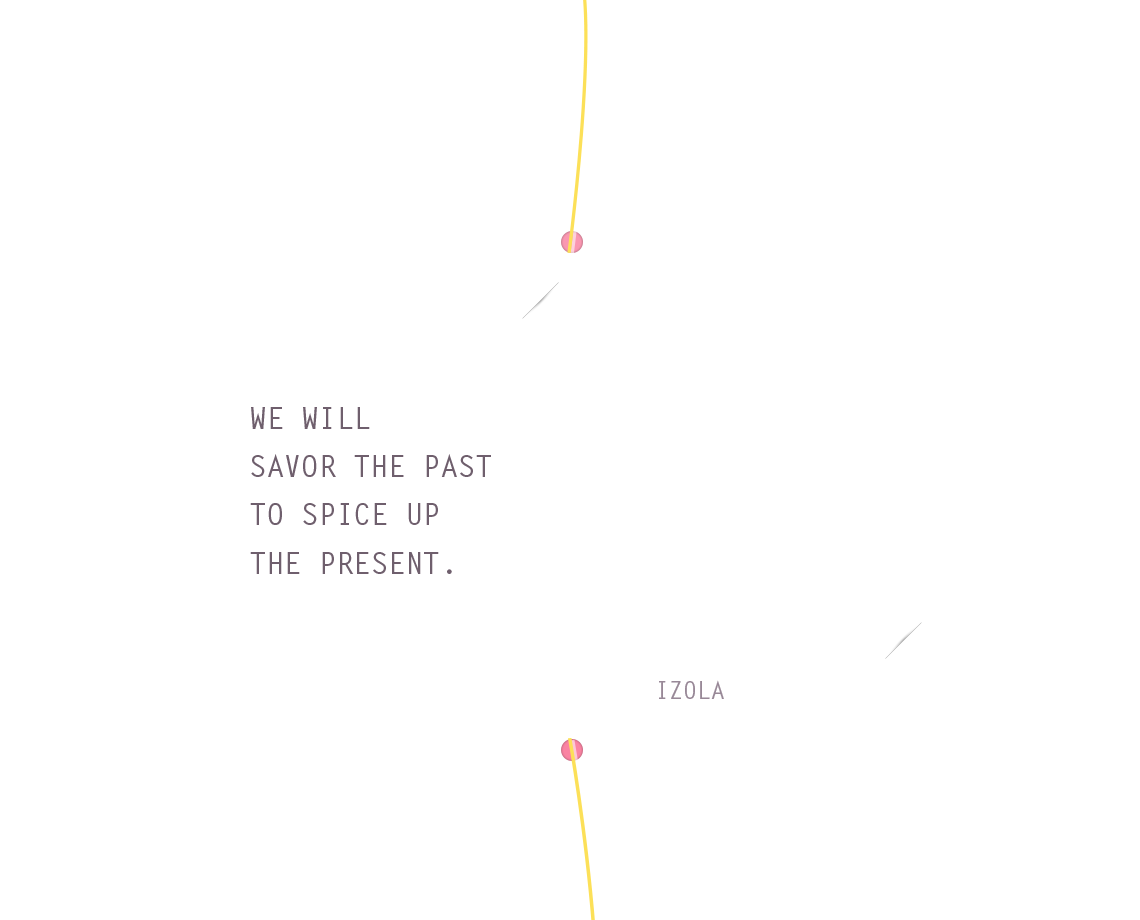
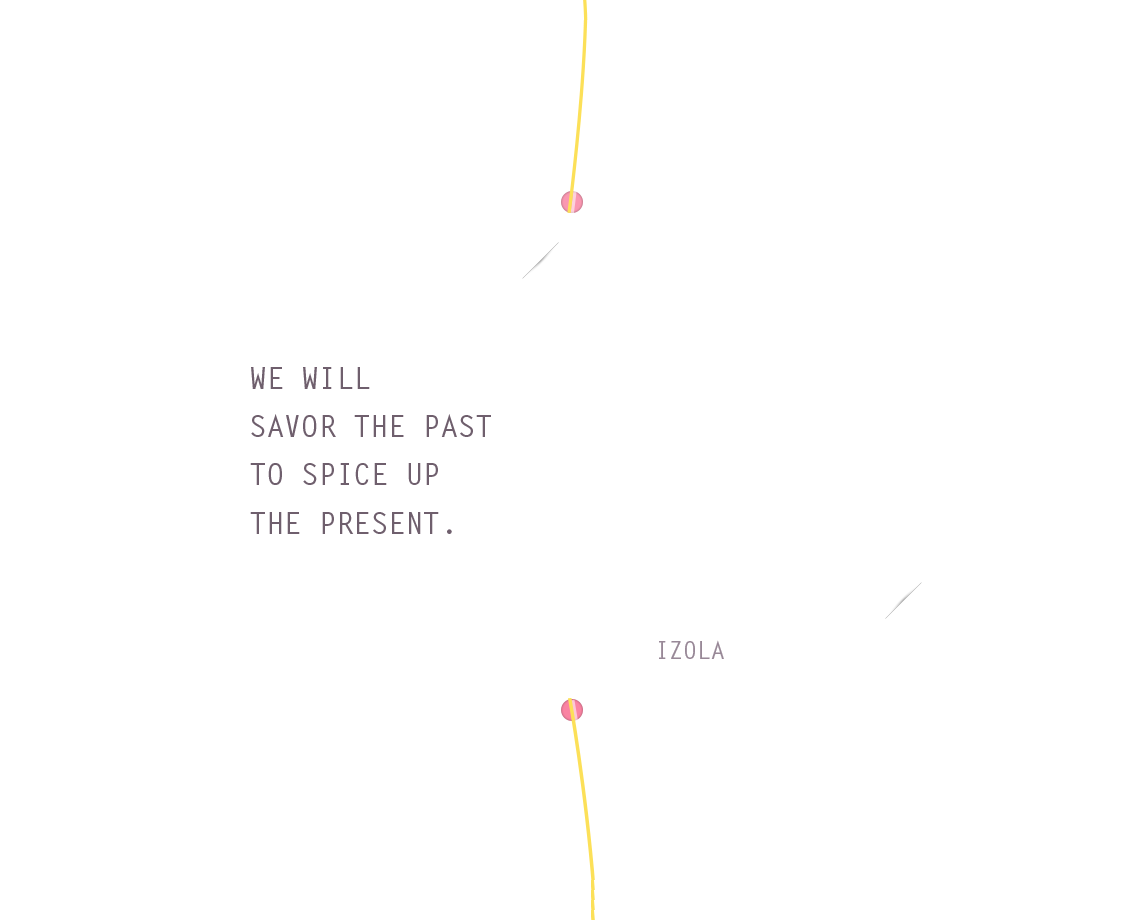
wip - parralax stable

diff --git a/public/static/css/style.css b/public/static/css/style.css
@@ -44,25 +44,60 @@ body, html { margin:0; padding:0; background-color:#fd8c80; }
 
 wrap { width:100%; position: relative; }
 
-#content-box { width: 1140px; height: 9300px; margin:0 auto; position:relative; }
+#content-box { width: 1140px; height: 10300px; margin:0 auto; position:relative; overflow:hidden; }
 #content-cards { position:absolute; top:0; left:0; right:0; bottom:0; /*background: url("/static/images/slides_cards.png") no-repeat scroll left top transparent;*/  }
 #content-text { position:absolute; top:0; left:0; right:0; bottom:0; /*background: url("/static/images/slides_text_wire_corners.png") no-repeat scroll left top transparent; */ }
 
-#content-back { position:absolute; top:0; left:0; right:0; bottom:0; height: 6080px; }
+#content-back { position:absolute; top:0; left:0; right:0; bottom:0; height: 7210px; /*background: url("/static/images/para_bg.jpg") repeat fixed left top transparent;*/}
 
 /* 920 / 900 -->  736/716 (0.8) | 598/578 (0.65) */
-.backslide { width:100%; height:598px; position:relative; /*display:none;*/ }
+.backslide { width:100%; height:736px; position:relative; /*display:none;*/ }
 /*.backslide.inview { display: block; }*/
 /*.backwhite { background-image: url("/static/images/white_overlay3.png"); position: absolute; top:0; left:0; right:0; bottom:0; }*/
 .backwhitefix { background-image: url("/static/images/white_overlay3.png"); position:fixed; top:0; left:0; right:0; bottom:0; }
-.back { width:100%; height:578px; border-bottom:20px solid transparent; }
+.back { width:100%; height:716px; border-bottom:20px solid transparent; }
 
-.backslide.backslide-1 { height:698px; }
-.backslide.backslide-1 .back { height: 678px; }
-.backslide.backslide-10 { height:798px }
-.backslide.backslide-10 .back { height: 778px; }
-.backslide.backslide-11 { height:798px }
-.backslide.backslide-11 .back { height: 778px; }
+/*.backslide.backslide-1 { height:836px; }
+.backslide.backslide-1 .back { height: 816px; }
+.backslide.backslide-10 { height:836px; }
+.backslide.backslide-10 .back { height: 816px; }
+.backslide.backslide-11 { height:836px; }
+.backslide.backslide-11 .back { height: 816px; }*/
+/*
+750 | 770
+610 | 630
+590 | 610
+650 | 670
+620 | 640
+650 | 670
+620 | 640
+590 | 610
+620 | 640
+650 | 670
+*/
+.backslide.backslide-1 { height:770px; }
+.backslide.backslide-1 .back { height: 750px; }
+.backslide.backslide-2 { height:630px; }
+.backslide.backslide-2 .back { height: 610px; }
+.backslide.backslide-3 { height:610px; }
+.backslide.backslide-3 .back { height: 590px; }
+.backslide.backslide-4 { height:670px; }
+.backslide.backslide-4 .back { height: 650px; }
+.backslide.backslide-5 { height:640px; }
+.backslide.backslide-5 .back { height: 620px; }
+.backslide.backslide-6 { height:670px; }
+.backslide.backslide-6 .back { height: 650px; }
+.backslide.backslide-7 { height:640px; }
+.backslide.backslide-7 .back { height: 620px; }
+.backslide.backslide-8 { height:610px; }
+.backslide.backslide-8 .back { height: 590px; }
+.backslide.backslide-9 { height:640px; }
+.backslide.backslide-9 .back { height: 620px; }
+.backslide.backslide-10 { height:670px; }
+.backslide.backslide-10 .back { height: 650px; }
+.backslide.backslide-11 { height:900px; }
+.backslide.backslide-11 .back { height: 920px; }
+
 
 .card { width: 1140px; height: 920px; /*border:1px solid red;*/  }
 .card_1 { background: url("/static/images/cards/card_1.png") no-repeat scroll left top transparent;  }
@@ -73,7 +108,7 @@ wrap { width:100%; position: relative; }
 .card.card-5 { background-position: left 30px; }
 .card.card-7 { background-position: left 17px; }
 .card.card-8 { background-position: left 17px; }
-.card.card-9 { background-position: left 58px; }
+.card.card-9 { background-position: left 18px; }
 
 .ctext { width: 1140px; height: 920px; position:relative; /*border:1px solid blue;*/ }
 
@@ -84,6 +119,7 @@ wrap { width:100%; position: relative; }
 /*.ctext.ctext-1 { background: url("/static/images/cards/card_border_1.png") no-repeat scroll 206px 167px transparent; }
 .ctext-back-1 { left:222px; top:183px; width:700px; height:510px; }*/
 
+/*.ctext.ctext-1 { background: url("/static/images/texts/text_1.png") no-repeat scroll left top transparent; }
 .ctext.ctext-2 { background: url("/static/images/texts/text_2.png") no-repeat scroll left top transparent; }
 .ctext.ctext-3 { background: url("/static/images/texts/text_3.png") no-repeat scroll left top transparent; }
 .ctext.ctext-4 { background: url("/static/images/texts/text_4.png") no-repeat scroll left top transparent; }
@@ -93,11 +129,15 @@ wrap { width:100%; position: relative; }
 .ctext.ctext-8 { background: url("/static/images/texts/text_8.png") no-repeat scroll left top transparent; }
 .ctext.ctext-9 { background: url("/static/images/texts/text_9.png") no-repeat scroll left top transparent; }
 .ctext.ctext-10 { background: url("/static/images/texts/text_10.png") no-repeat scroll left top transparent; }
+.ctext.ctext-11 { background: url("/static/images/invite_page.png") no-repeat scroll left top transparent; }*/
+
 .ctext.ctext-10 { height:1020px; }
 
+/*.ctext-img-11 { height:600px; width: 705px; }*/
+/*.ctext-img-9 { top:-10px; }*/
+
+
 /* 504 | 672  */
-
-
 .prod_img { background: none repeat scroll 0 0 gray; height: 345px; left: 545px; position: absolute; top: 300px; width: 370px; overflow:hidden;}
 .prod_img img { position:absolute; left:0; bottom:0; }
 
@@ -119,6 +159,6 @@ wrap { width:100%; position: relative; }
 .prod_img-8 { left: 545px; top: 290px; }
 .prod-img-8 { height: 345px; width: 370px; }
 
-.prod_img-9 {  height: 355px; left: 535px; top: 290px; }
+.prod_img-9 {  height: 355px; left: 535px; top: 255px; }
 .prod-img-9 {  height: 355px; width: 370px; }
 

diff --git a/public/static/js/script.js b/public/static/js/script.js
@@ -10,22 +10,27 @@ var Prelaunch = (function(){ function Prelaunch($) { this._ = 'prelaunch'; var s
     {
         //$.stellar();
         
-        $('.backslide').bind('inview',function(ev,is_in){
-            //if(is_in) $(this).addClass('inview');
-            //else $(this).removeClass('inview');
-        });
+        //$('.backslide').bind('inview',function(ev,is_in){
+        //    //if(is_in) $(this).addClass('inview');
+        //    //else $(this).removeClass('inview');
+        //});
         
         $('#content-back').scrollingParallax({
-            staticSpeed: 0.66,
+            staticSpeed: 0.7,
             staticScrollLimit: false,
         });
+        //$.scrollingParallax('/static/images/para_bg.jpg',{
+        //    staticSpeed: 0.7,
+        //    staticScrollLimit: false,
+        //    bgHeight:'7210px',
+        //});
         //$('#content-back').sinaptillax(1);
-        //$('#content-back').parallax('50%',1);
+        //$('#content-back').parallax('50%',0.7);
         
         $('body').click(function(){
             var page = parseInt( window.scrollY / 920 ) + 1;
-            if (page > 9) return;
-            $.scrollTo(page * 920 + 150, 800);
+            if (page > 10) return;
+            $.scrollTo(page * 920 + 150, 1400);
         });
         
         (function() {

diff --git a/public/index.php b/public/index.php
@@ -19,8 +19,8 @@
 </head>
 <body>
 <div class="wrap">
-
-    <div id="content-back" data-stellar-ratio="0.4">
+    
+    <div id="content-back" data-stellar-background-ratio="0.7">
         <div class="backslide backslide-1"><div class="back cblue bcdarkpurple"></div><div class="backwhite"></div></div>
         <div class="backslide backslide-2"><div class="back cpink bcdarkbrown"></div><div class="backwhite"></div></div>
         <div class="backslide backslide-3"><div class="back cgreen bcdarkgreen"></div><div class="backwhite"></div></div>
@@ -33,7 +33,9 @@
         <div class="backslide backslide-10"><div class="back corange bcheavyorange2"></div><div class="backwhite"></div></div>
         <div class="backslide backslide-11"><div class="back cred"></div><div class="backwhite"></div></div>
     </div>
+    
     <div class="backwhitefix"></div>
+    
     
     <div id="content-box">
         <div id="content-cards" class="cnt">
@@ -64,7 +66,8 @@
             <!-- inite page -->
             <div class="ctext ctext-11">
                 <div class="ctext-back-11"></div>
-                <img class="ctext-img-11" src="/static/images/invite_page.png" />
+                <!--<img class="ctext-img-11" src="/static/images/invite_page.png" />-->
+                <img class="ctext-img-11" src="/static/images/texts/text_11_1.png" />
             </div>
             
             
